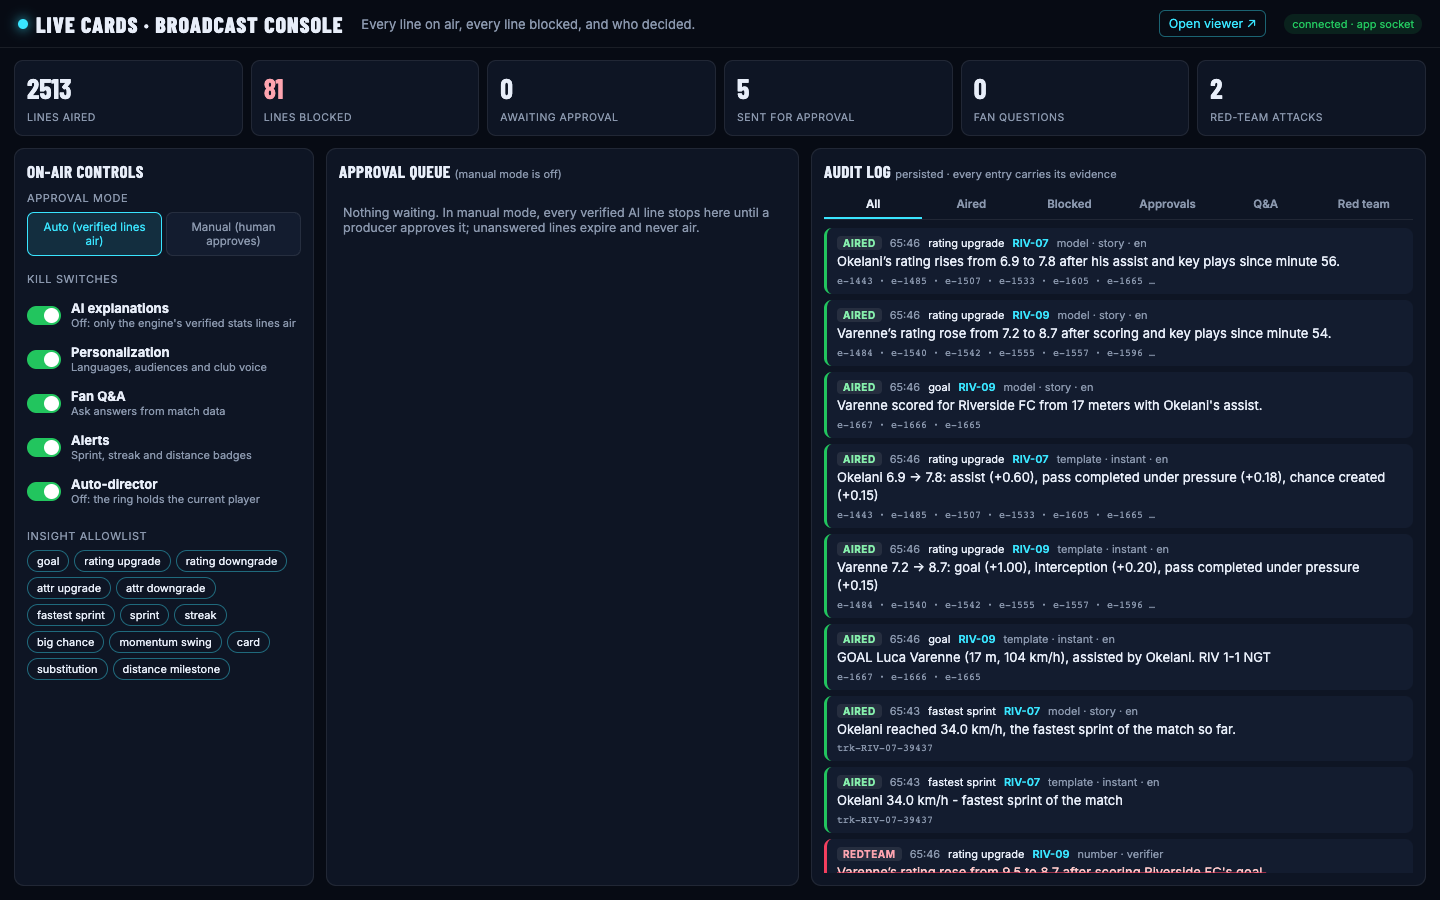
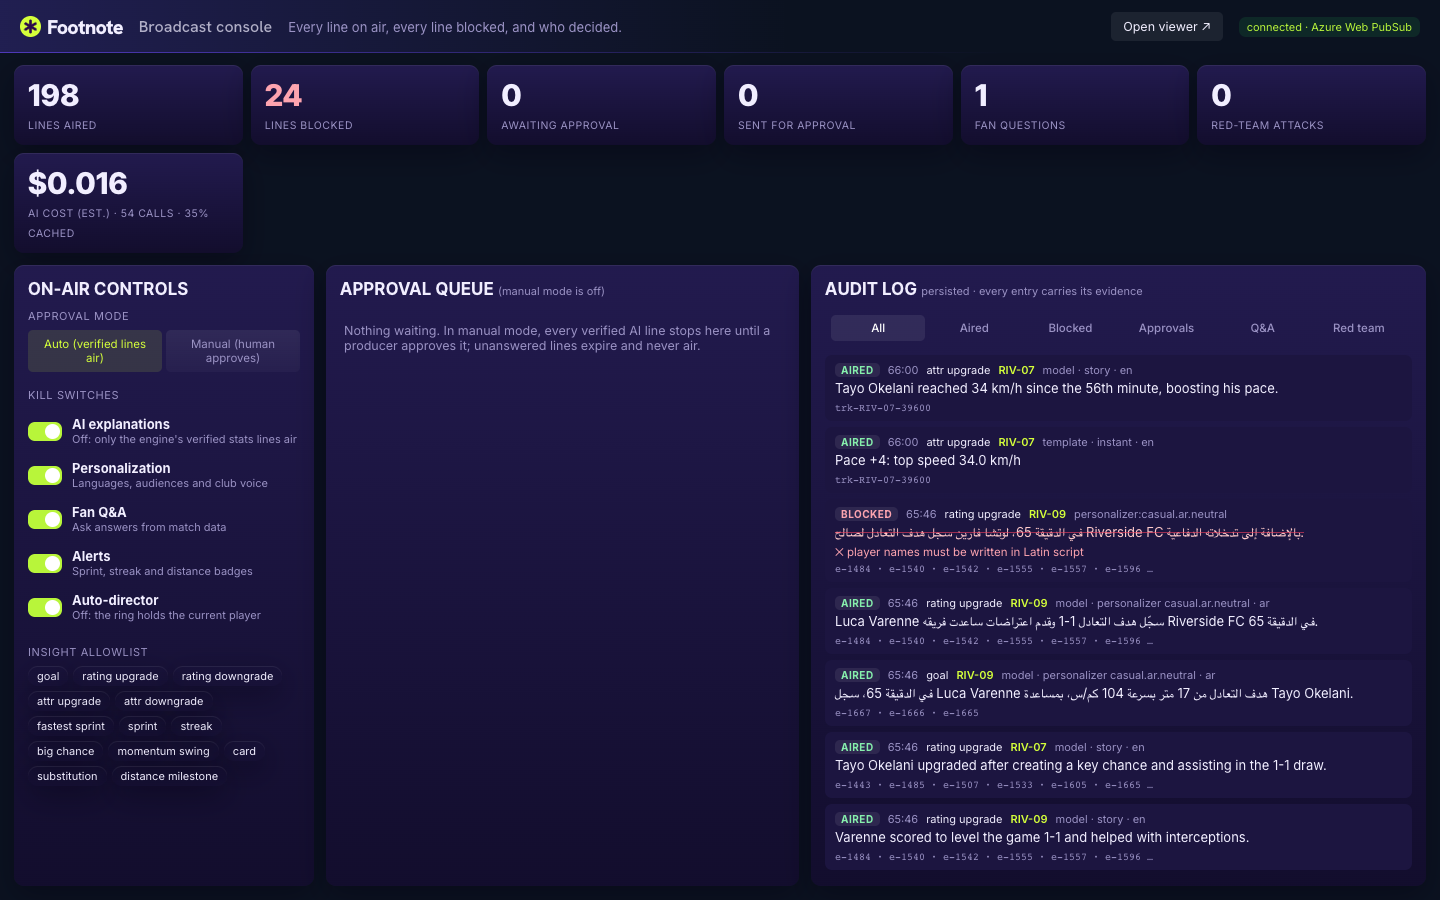
README media refreshed for the new design: Show me GIF, and screenshots of Show me, Agents (a planted lie caught and rewritten), following with stat rings, a story step, squads, the xG lesson, home and the console; screenshot/GIF scripts updated

diff --git a/backend/scripts/screenshots.py b/backend/scripts/screenshots.py
@@ -67,7 +67,8 @@ def main() -> None:
         time.sleep(2)
         page.mouse.move(1300, 880)
         time.sleep(1)
-        shot(page, "follow", ".an-top")
+        page.screenshot(path=str(OUT / "follow.png"), clip={"x": 0, "y": 64, "width": 1440, "height": 640})
+        print("saved follow")
         page.locator(".stat-chips .sc-x").click()
 
         # Agents tab: play into the 65' goal, then plant a lie and let the checks catch it.
@@ -82,6 +83,9 @@ def main() -> None:
             time.sleep(1)
         time.sleep(1)
         page.locator(".board.all").scroll_into_view_if_needed()
+        if page.locator(".an-pip-close").count():
+            page.locator(".an-pip-close").click()  # keep the corner video out of the shot
+            time.sleep(0.5)
         shot(page, "agents", ".board.all")
 
         page.goto(f"{a.base}/?page=play&play=e-1666")

diff --git a/README.md b/README.md
@@ -9,7 +9,7 @@ board, with the space each pass opened; follow any player and see every number c
 reason; learn what each stat means from the match in front of you. **Numbers come from code,
 words from AI agents, and nothing reaches the screen until two independent checks pass.**
 
-![Footnote: the ring moves to the striker before the cross lands, the goal, and his card upgrades with its reasons](docs/media/hero.gif)
+![Footnote: Show me replays the 65' goal touch by touch on the tactics board, with each pass drawn, the space it opened and the checked story](docs/media/hero.gif)
 
 **[Live demo](https://livecards.mangorock-d6a7d3f2.northcentralus.azurecontainerapps.io/)** ·
 **[Show me a goal](https://livecards.mangorock-d6a7d3f2.northcentralus.azurecontainerapps.io/?page=analyse&showme=e-1666)** ·
@@ -36,11 +36,15 @@ words from AI agents, and nothing reaches the screen until two independent check
 | **Watch the agents work** | An Agents tab shows every moment going through the pipeline live: Explainer → code Verifier → Reviewer → aired, with timings, any rejection and its reason, the rewrite, and what the AI cost so far. A *Plant a lie* button shows the checks catching one. |
 | **Built for a broadcaster** | A console with kill switches, an insight allowlist, human approval, and a permanent audit log of every line aired or blocked. Every on-screen element is also a timed, machine-readable overlay cue ([JSON Schema](docs/overlay-cue.schema.json)). |
 
-| Studio view: Analyst mode with "Your model" | Red team: a planted lie, blocked |
+| Show me: a goal replayed on the tactics board | Agents, live: a planted lie caught and rewritten |
 |---|---|
-| ![Analyst card with rating ledger, attribute metrics and the analyst's model compared](docs/media/studio-analyst.png) | ![A made-up number is injected, blocked by the code verifier, and the correct line airs](docs/media/redteam.png) |
-| **Spanish viewer, and the same moment for four fans** | **Broadcast console** |
-| ![Card, ticker and goal banner in Spanish; the Fans tab shows English analyst, Spanish home fan, Arabic and French versions](docs/media/fans-es.png) | ![Console with kill switches, approval mode, allowlist and the audit log](docs/media/console.png) |
+| ![The 65' goal replayed on the tactics board: the long ball drawn, pitch control shaded, +28 m² of the final third](docs/media/showme.png) | ![Each moment through Explainer, Verifier, Reviewer and the Personalizer, with a red-team lie rejected by the code verifier, rewritten and aired](docs/media/agents.png) |
+| **Following a player, every ring coloured by work rate** | **Every play as a story** |
+| ![The broadcast with stat rings coloured by Engine, hover values, and the following card with heatmap and key stats](docs/media/follow.png) | ![A scroll story step: the pass, its difficulty, the final-third space it created](docs/media/story.png) |
+| **Squads, with the starting XI** | **Learn: click the pitch, the engine scores the shot** |
+| ![The Riverside squad page with the 4-3-3 lineup and ratings](docs/media/players.png) | ![The xG lesson with the try-it pitch showing 0.28 xG from near the penalty spot](docs/media/learn.png) |
+| **Home** | **Broadcast console** |
+| ![Home page with the latest result and plays to break down](docs/media/home.png) | ![Console with kill switches, approval mode, the audit log and AI cost](docs/media/console.png) |
 
 ## The brief's pipeline, end to end
 
